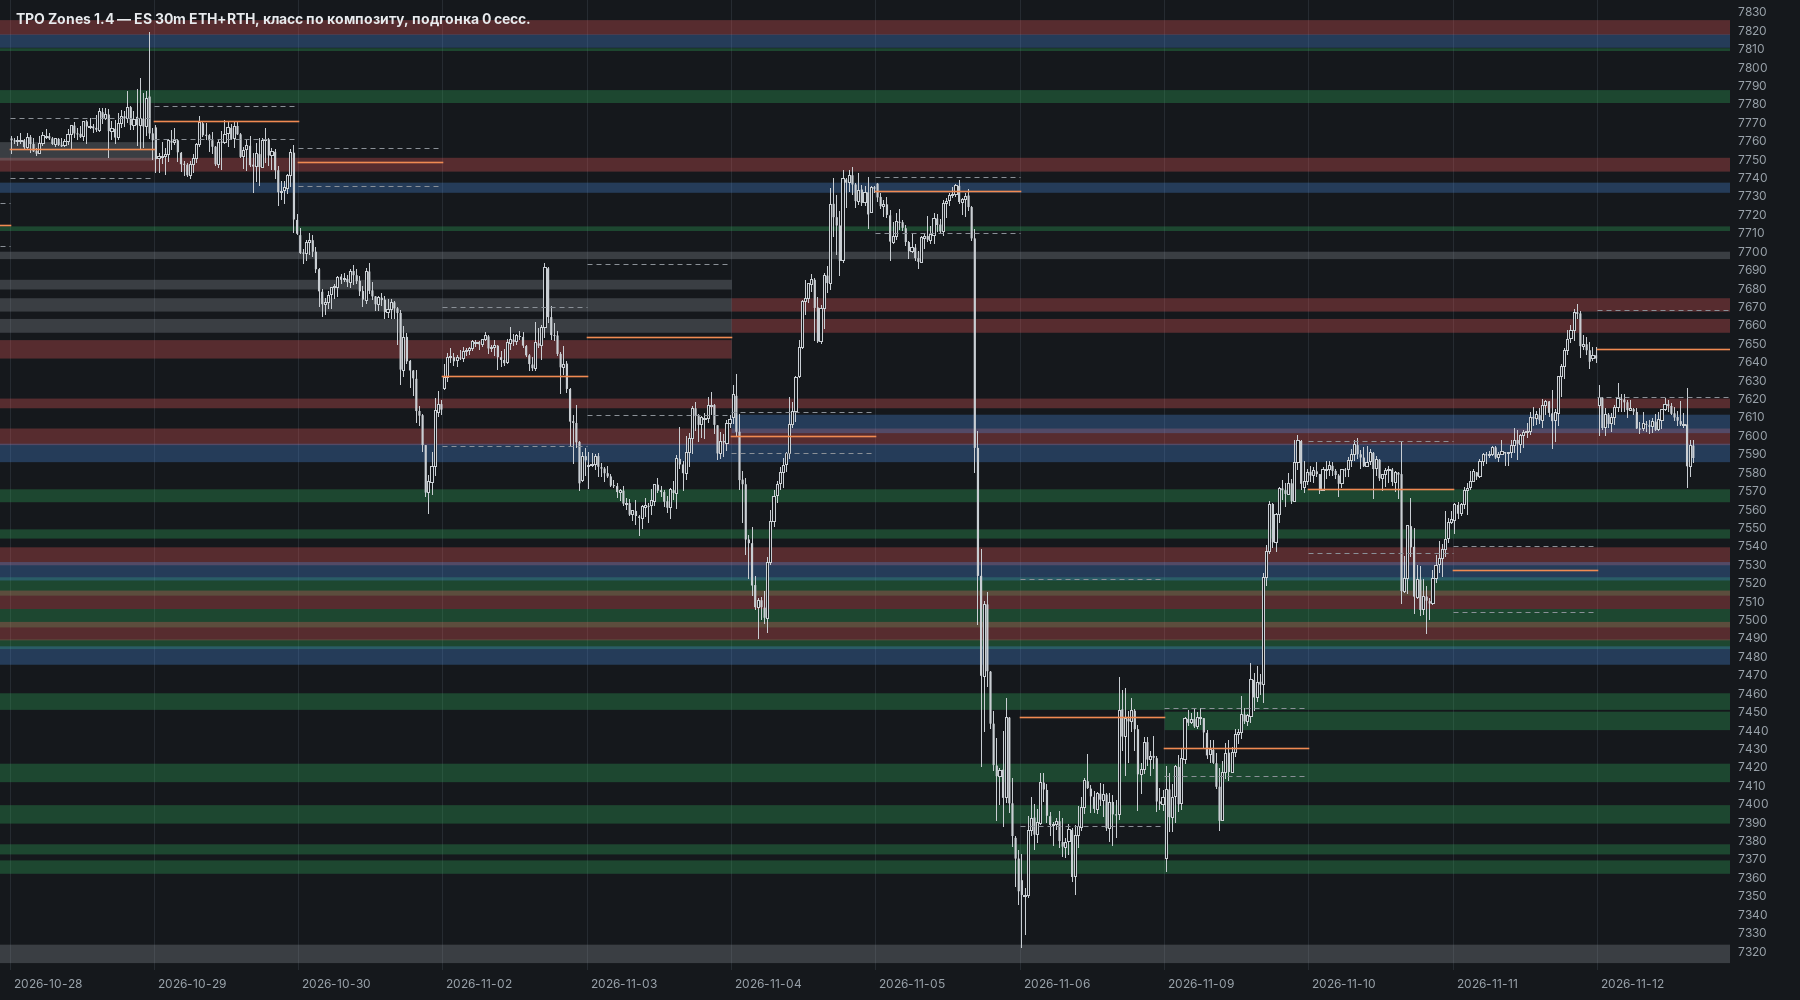
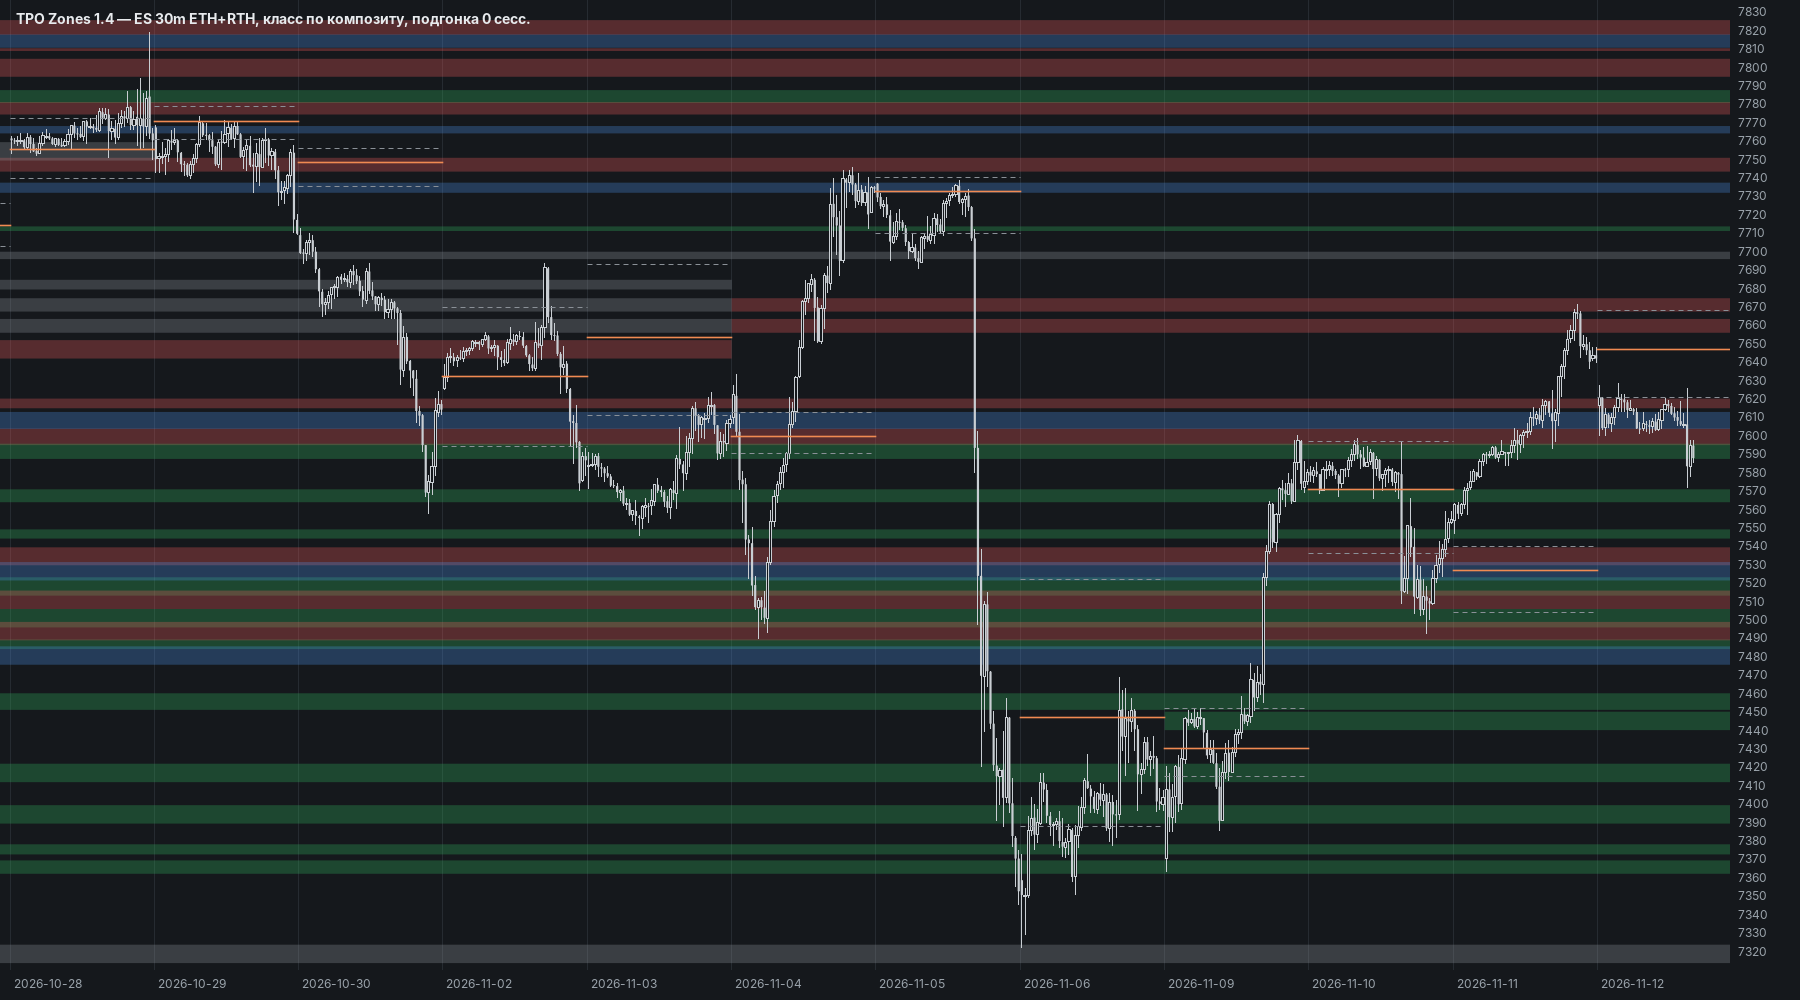
1.4: short days join composites
In composite mode, early-close days (fewer than 13 RTH periods) are part of
composites, as in the platform's TPO. With 2026-06-19 the 06-17..22
composite has one peak, POC 7607.50 (22 TPO), instead of a 17/17 tie that
the range-centre rule gave to the lower peak. Daily HVN zones still use full
days only.

Claude-Session: https://claude.ai/code/session_01PTkoju45i5ZphCgSn4vnkL

Changed region(s): [[0.0, 0.031, 0.9644, 0.155], [0.0, 0.403, 0.9644, 0.465]]

diff --git a/motivewave/src/patterns/zones/TpoZonesStudy.java b/motivewave/src/patterns/zones/TpoZonesStudy.java
@@ -56,7 +56,7 @@ import patterns.zones.ZoneEngine.Result;
 public class TpoZonesStudy extends Study {
 
     // ---- ключи настроек
-    static final String SUB_OV = "subOverlap", SUB_RATIO = "subRatio", CLIFF = "coreCliff", CORE_DAYS = "coreMinDays", CORE_SESS = "coreFromSessions", JOIN_GAP = "joinGap", ZONE_W = "zoneMaxW", MODE = "compositeMode", CORE_VA = "coreByVa", BAR30 = "bar30", HISTORY_DAYS = "historyDays", TZ = "tz", RTH_START = "rthStart",
+    static final String SHORT_DAYS = "compShortDays", SUB_OV = "subOverlap", SUB_RATIO = "subRatio", CLIFF = "coreCliff", CORE_DAYS = "coreMinDays", CORE_SESS = "coreFromSessions", JOIN_GAP = "joinGap", ZONE_W = "zoneMaxW", MODE = "compositeMode", CORE_VA = "coreByVa", BAR30 = "bar30", HISTORY_DAYS = "historyDays", TZ = "tz", RTH_START = "rthStart",
             RTH_END = "rthEnd", ETH_START = "ethStart", TICK = "tick", VA_PCT = "vaPct", HVN_SHARE = "hvnShare",
             HVN_MIN = "hvnMin", HVN_MAX = "hvnMax", GHVN_MIN = "greyHvnMin", GHVN_MAX = "greyHvnMax",
             MERGE_OV = "mergeOv", MERGE_W = "mergeW", COMP_DAYS = "compDays", GREY_HIST = "greyHist",
@@ -91,6 +91,7 @@ public class TpoZonesStudy extends Study {
         g.addRow(new BooleanDescriptor(CORE_SESS, "Ядро по профилю композита: от POC до обрыва TPO, баланс — по VA дней", true));
         g.addRow(new IntegerDescriptor(CLIFF, "Обрыв TPO: строка на N принтов ниже максимума предыдущего 1 п. — граница ядра (0 — выкл.)", 4, 0, 50, 1));
         g.addRow(new DoubleDescriptor(CORE_DAYS, "Композит — баланс, если ядро задевают VA ≥ доли его дней (0 — любой)", 0.5, 0, 1, 0.05));
+        g.addRow(new BooleanDescriptor(SHORT_DAYS, "Короткие дни (ранние закрытия) входят в композиты", true));
         g.addRow(new DoubleDescriptor(SUB_OV, "Уточнение: ≥ доли диапазона композита внутри раннего баланса — его ядро серое (0 — выкл.)", 0.70, 0, 1, 0.05));
         g.addRow(new DoubleDescriptor(SUB_RATIO, "Уточнение: если тот баланс не шире композита больше чем в, раз", 2.0, 1, 10, 0.1));
         g.addRow(new DoubleDescriptor(JOIN_GAP, "Соседние зоны одного вида ближе, п. — подтверждение старой (−1 — выкл.)", 0.25, -1, 10, 0.25));
@@ -245,6 +246,7 @@ public class TpoZonesStudy extends Study {
         p.coreMinDaysShare = st.getDouble(CORE_DAYS, 0.5);
         p.coreCliffTpo = st.getInteger(CLIFF, 4);
         p.subOverlap = st.getDouble(SUB_OV, 0.70);
+        p.compositeShortDays = st.getBoolean(SHORT_DAYS, true);
         p.subMaxRatio = st.getDouble(SUB_RATIO, 2.0);
         p.joinGapPts = st.getDouble(JOIN_GAP, 0.25);
         p.minWickTicks = st.getInteger(WICK, 2);

diff --git a/motivewave/src/patterns/zones/ZoneEngine.java b/motivewave/src/patterns/zones/ZoneEngine.java
@@ -82,6 +82,7 @@ public final class ZoneEngine {
         public double coreAbsorb = 0.30;
         public boolean coreFromSessions = true;   // ядро до обрыва TPO; баланс — если VA дней задевают ядро
         public int coreCliffTpo = 4;              // обрыв: строка на N принтов ниже максимума предыдущего 1 п. (4 тика)
+        public boolean compositeShortDays = true; // режим «по композиту»: короткие дни входят в композиты
         public double subOverlap = 0.70;          // ≥ этой доли диапазона композита внутри раннего баланса — уточнение (0 — выкл.)
         public double subMaxRatio = 2.0;          // ... если тот баланс не шире композита больше чем в столько раз
         public double coreMinDaysShare = 0.5;     // ядро признаётся, если его задевают VA ≥ этой доли дней композита;
@@ -304,7 +305,8 @@ public final class ZoneEngine {
         List<Zone> ob = new ArrayList<>(), greyComp = new ArrayList<>();
         {
             List<Day> cand = new ArrayList<>(); Profile cp = null;
-            for (Day d : full) {
+            // режим «по композиту»: короткие дни (ранние закрытия) тоже входят в композит, как в TPO платформы
+            for (Day d : p.compositeMode && p.compositeShortDays ? all : full) {
                 if (cand.isEmpty()) { cand.add(d); cp = d.profile; continue; }
                 int c = ticks(d.close, tick);
                 if (c >= cp.low && c <= cp.high()) { cand.add(d); cp = merge(cp, d.profile); continue; }

diff --git a/motivewave/README.md b/motivewave/README.md
@@ -20,7 +20,8 @@
 
 - **1.4** (ветка `zones-1.4`) — композит, чей диапазон на ≥ 70% внутри более раннего баланса,
   — уточнение: своего баланса не даёт, его ядро серое, поддержкой / сопротивлением управляет
-  родитель (один ренж — одна проторговка, а не несколько ядер подряд).
+  родитель (один ренж — одна проторговка, а не несколько ядер подряд); короткие дни входят в композиты;
+  подсказка ядра: дни композита, диапазон, POC и две вершины.
 - **1.3** (ветка `zones-1.3`) — ядро композита от POC до обрыва TPO (не уходит за падение принтов),
   композит — баланс, только если VA его дней задевают ядро, зона, родившаяся во время композита,
   переходит к нему, когда он сложится.
@@ -61,10 +62,15 @@
 Отсеивается 20 из 173 — широкие трендовые движения (медиана диапазона 133 п. против 92);
 зоны внутри них остаются серыми, пока их не накроет баланс.
 
+**Короткие дни в композитах:** в режиме «по композиту» дни с ранним закрытием (меньше 13 RTH-периодов)
+входят в композиты, как в TPO платформы (настройка). Пример — 19.06 (Juneteenth, 7 периодов): с ним у
+композита 17–22.06 одна вершина POC 7607.50 (22 TPO, ≈ 7561 на ESZ6), без него — ничья 17 / 17
+двух вершин, и POC уезжал на нижнюю (≈ 7541). Дневные HVN-зоны по-прежнему только из полных дней.
+
 **Уточнения внутри баланса:** композит, чей диапазон на ≥ 70% лежит внутри более раннего
 баланса (и тот не шире больше чем в 2 раза), своего баланса не даёт: его ядро — серая зона,
 поддержкой / сопротивлением в этом диапазоне управляет родитель. Пример — ренж 17.06–22.06
-(ядро 7586–7596, в MotiveWave на ESZ6 ≈ 7540–7550): композиты 30.06–09.07, 10.07–16.07,
+(ядро 7604–7613.25, в MotiveWave на ESZ6 ≈ 7557.5–7566.75): композиты 30.06–09.07, 10.07–16.07,
 17.07–22.07 внутри него — уточнения, их ядра 7599–7609, 7636–7643, 7567–7577 серые.
 
 **Соседи склеиваются:** новое ядро, касающееся существующего (зазор ≤ 0.25 п.), — его
